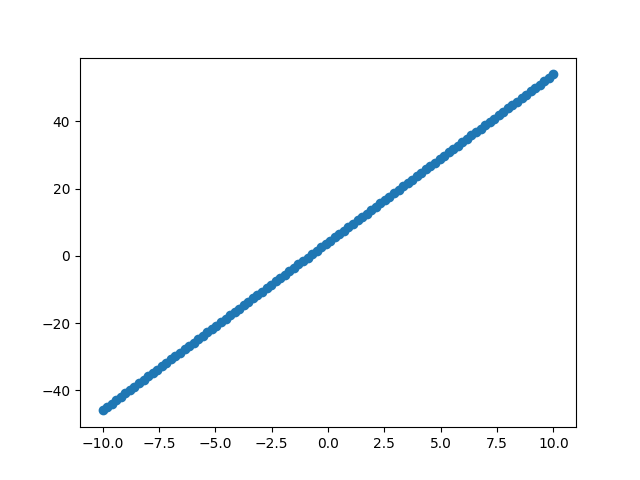
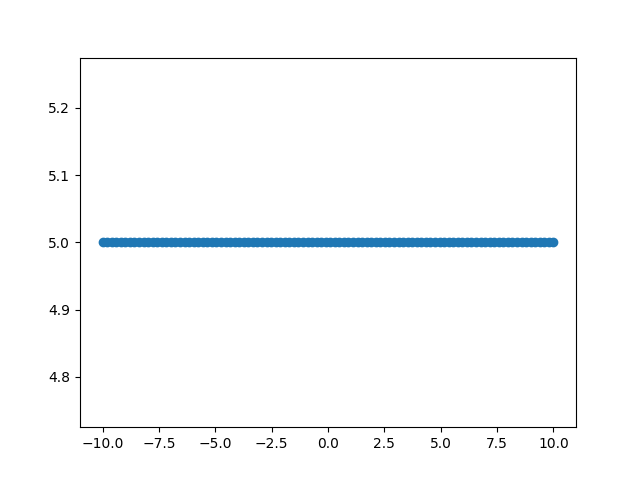
Se agrega avances de la clase

diff --git a/funcion_lineal.py b/funcion_lineal.py
@@ -11,13 +11,13 @@ def operacion():
     
     def func_lineal():
     
-        def funcion_lineal(m, b, x):
-            return m*x + b
+        def funcion_lineal(m1, b1, x):
+            return m1*x + b1
         
-        m.set(5)
-        b.set(4)
-        m1 = int(m.get())
-        b1 = int(b.get())
+        #m.set(5)
+        #b.set(4)
+        m1 = int(entry_m.get())
+        b1 = int(entry_b.get())
 
         
         
@@ -40,14 +40,16 @@ def operacion():
 
     
     
-    m = StringVar()
-    b = StringVar()
+    #m = StringVar()
+    #b = StringVar()
 
     frame_entrada = Frame(ventana_secundaria)
     frame_entrada.config(bg = "light grey", width = 380 , height = 280)
     frame_entrada.place(x = 10, y = 10)
 
-
+    bt_convertir = Button(frame_entrada, text="Ejecutar",bg="slategray4", fg="light grey", command=func_lineal)
+    bt_convertir.place(x=125, y=240, width=120, height=30)
+    
 
     titulo = Label(frame_entrada, text = "Graficador de función Lineal")
     titulo.config(bg = "light grey", fg = "gray21", font = ("Rubik",18))
@@ -63,24 +65,22 @@ def operacion():
     
     # Entry para la pendiente "m"
 
-    entry_s = Entry(frame_entrada, textvariable= m)
-    entry_s.config(font=("Rubik",20), justify=LEFT, fg="gray21")
-    entry_s.focus_set()
-    entry_s.place(x=200, y=150, width=115, height=30)
+    entry_m = Entry(frame_entrada)
+    entry_m.config(font=("Rubik",20), justify=LEFT, fg="gray21")
+    entry_m.focus_set()
+    entry_m.place(x=200, y=150, width=115, height=30)
     
 
     
     # Entry para el corte en el eje y "b"
 
-    entry_b = Entry(frame_entrada, textvariable= b)
+    entry_b = Entry(frame_entrada)
     entry_b.config(font=("Rubik",20), justify=LEFT, fg="gray21")
     entry_b.place(x=200, y=190, width=115, height=30)
     
 
 
 
-    bt_convertir = Button(frame_entrada, text="Ejecutar",bg="slategray4", fg="light grey", command= func_lineal)
-    bt_convertir.place(x=125, y=240, width=120, height=30)
     
     
 

diff --git a/main.py b/main.py
@@ -14,7 +14,6 @@ ventana_principal.config(bg="snow")
 
 
 
-x = StringVar()
 
 frame_entrada = Frame(ventana_principal)
 frame_entrada.config(bg = "light grey", width = 380 , height = 240)
